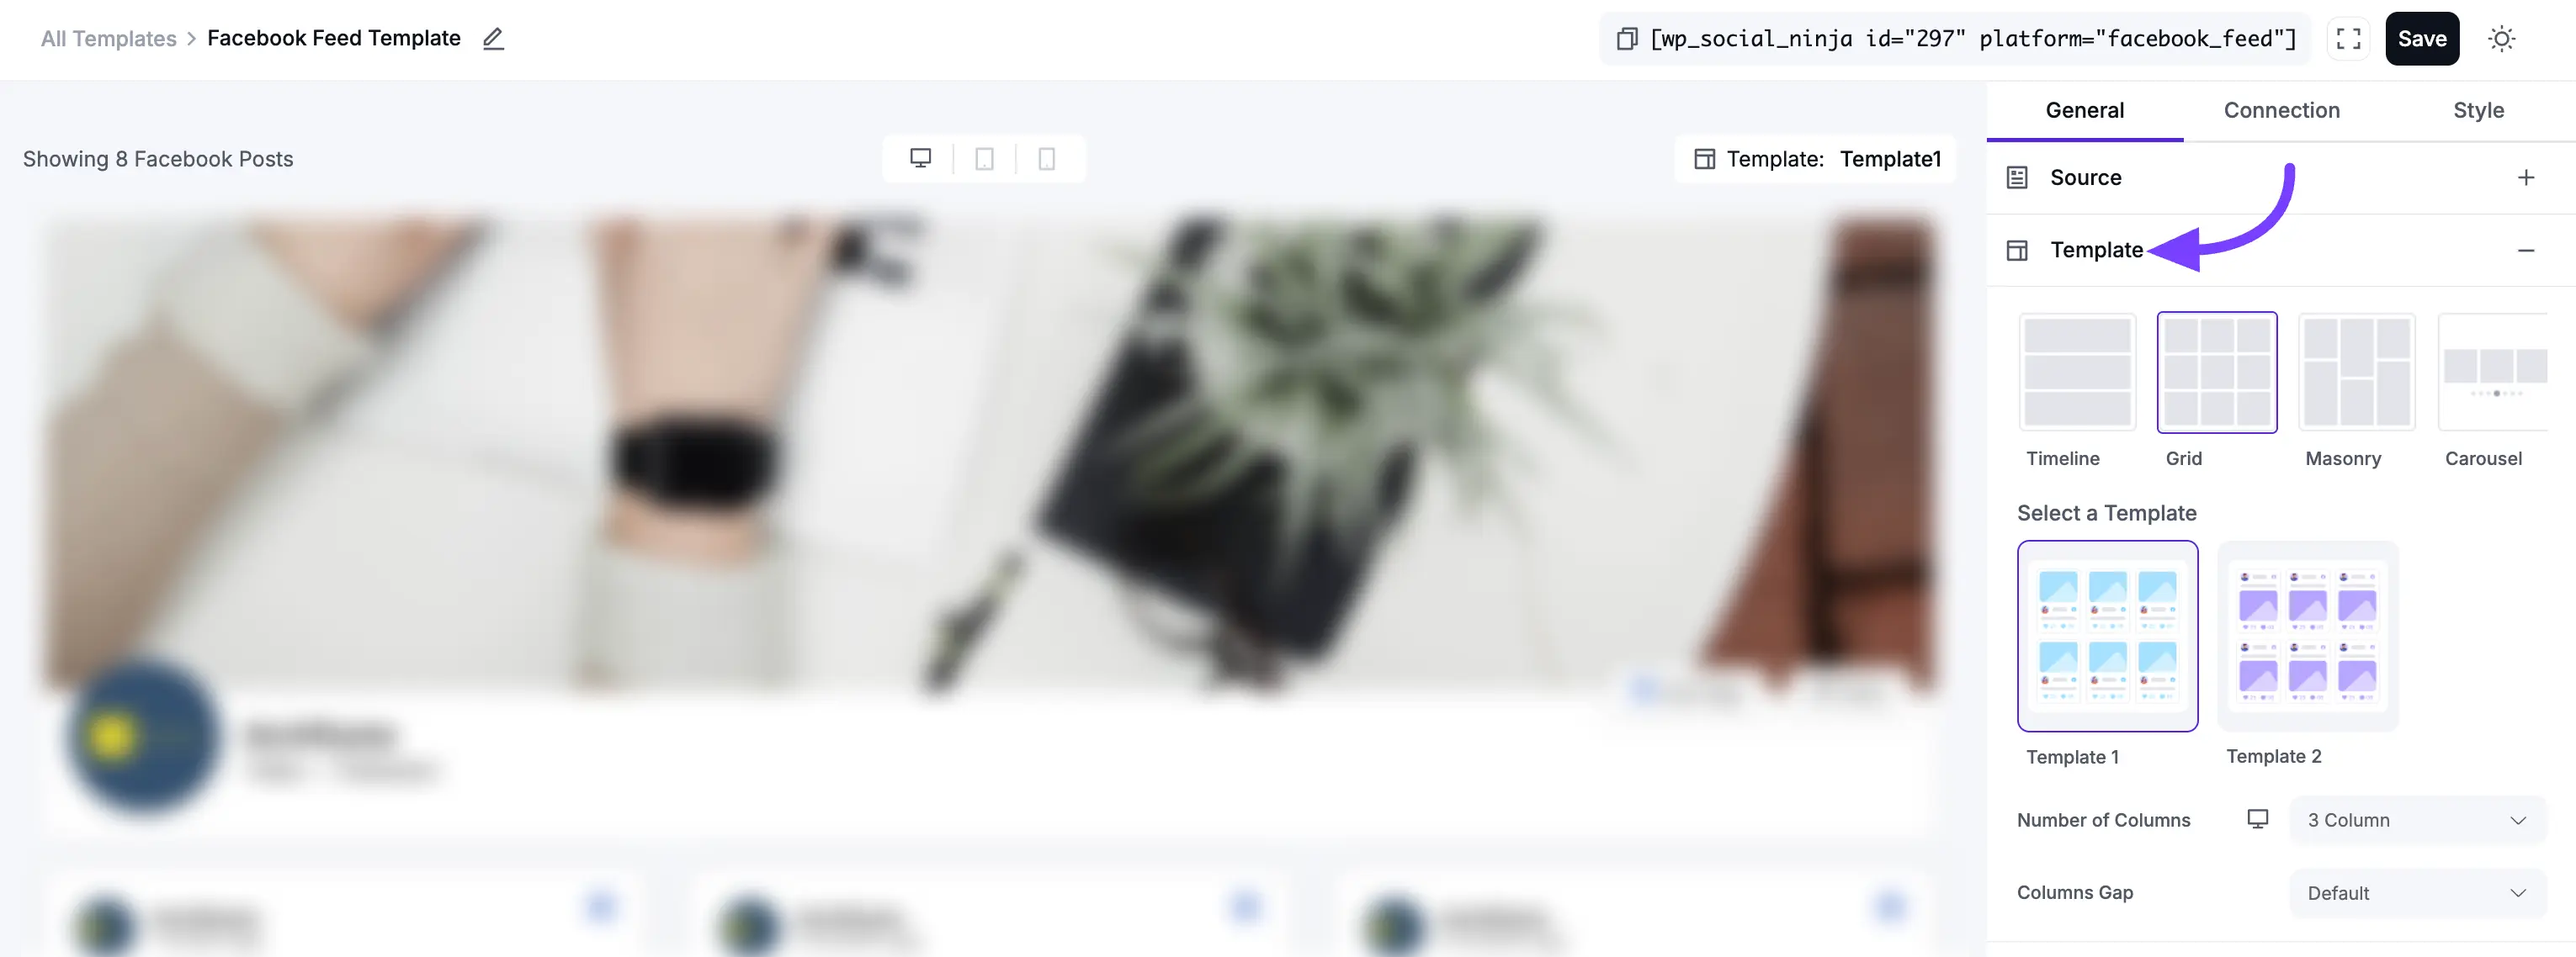
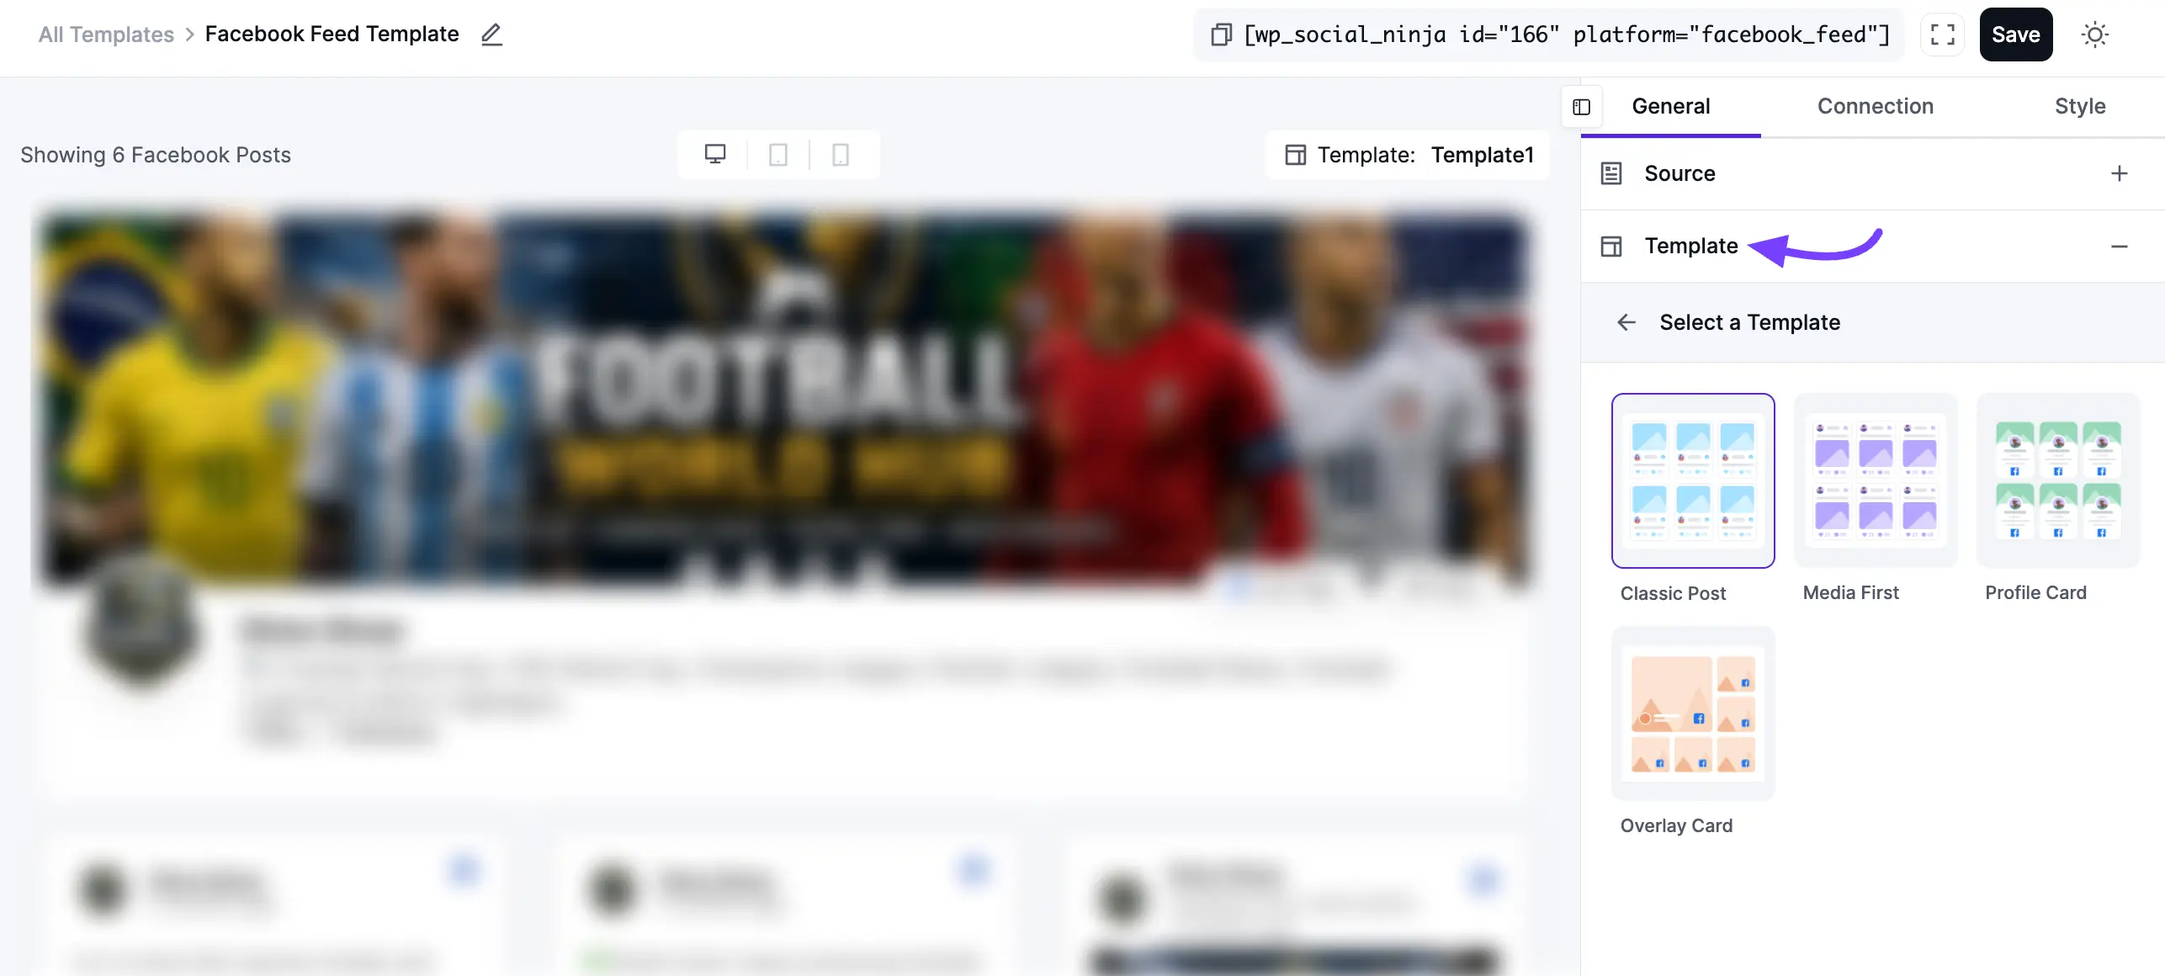
update Facebook Feed Template: General Settings

diff --git a/guide/social-feeds/facebook-customization.md b/guide/social-feeds/facebook-customization.md
@@ -62,34 +62,24 @@ This section controls the visual structure and arrangement of your posts.
 * **Number of Columns:** This is a crucial responsive setting. You can set the number of columns to show on **Desktop**, **Tablet**, and **Mobile** devices.
 * **Columns Gap:** This controls the amount of "gutter" or empty space (in pixels) between each post in your feed. Increase this for a more spaced-out, airy look, or decrease it to make the posts tighter.
 
-<!-- TODO: Capture this screenshot and save it at /guide/public/images/social-feeds/how-to-customize-facebook-feed-with-wp-social-ninja/template-picker.webp
-     then delete these comment markers to publish the image.
-![Choosing a Facebook feed template](/guide/public/images/social-feeds/how-to-customize-facebook-feed-with-wp-social-ninja/template-picker.webp)
--->
+![The Template section's Select a Template picker showing Classic Post, Media First, Profile Card, and Overlay Card](/guide/public/images/social-feeds/how-to-customize-facebook-feed-with-wp-social-ninja/fb-template-general-3.webp)
+
 
 #### What the Pro Layouts Look Like
 
-**Profile Card** puts a summary of your Page — profile picture, name and statistics — in a card above the posts.
+**Profile Card** puts a summary of your Page profile picture, name and statistics in a card above the posts.
 
-<!-- TODO: Capture this screenshot and save it at /guide/public/images/social-feeds/how-to-customize-facebook-feed-with-wp-social-ninja/profile-card.webp
-     Capture a live Facebook feed using the Profile Card template, with the summary card visible above the posts.
-     Then delete these comment markers to publish the image.
-![A Facebook feed using the Profile Card template](/guide/public/images/social-feeds/how-to-customize-facebook-feed-with-wp-social-ninja/profile-card.webp)
--->
+![The Profile Card template on the frontend, with a page summary card above the regular post cards](/guide/public/images/social-feeds/how-to-customize-facebook-feed-with-wp-social-ninja/profile-card-4.webp)
 
 **Overlay Card** arranges your media into a mosaic of tiles of varying sizes, and reveals each post's text over the tile on hover.
 
-<!-- TODO: Capture this screenshot and save it at /guide/public/images/social-feeds/how-to-customize-facebook-feed-with-wp-social-ninja/overlay-card-mosaic.webp
-     Capture the Overlay Card mosaic with the cursor resting on one tile, so the post text overlay is visible.
-     Then delete these comment markers to publish the image.
-![A Facebook feed using the Overlay Card mosaic template](/guide/public/images/social-feeds/how-to-customize-facebook-feed-with-wp-social-ninja/overlay-card-mosaic.webp)
--->
+![The Overlay Card template](/guide/public/images/social-feeds/how-to-customize-facebook-feed-with-wp-social-ninja/overlay-card-5.webp)
+
 
 #### Sorting and Order
 
 Use the Order dropdown to control how your posts are displayed. Along with standard options like **Newest**, **Oldest**, and **Random**. You can also choose **Facebook Event Default** to prioritize posts using Facebook’s native event-ordering logic.
 
-![Facebook Feed Template](/guide/public/images/social-feeds/how-to-customize-facebook-feed-with-wp-social-ninja/fb-template-general-3.webp)
 
 ### 3. Filters
 
@@ -166,24 +156,20 @@ This section controls the content and links inside each individual post card.
 This section controls the large banner at the top of your entire feed, which displays your main Page information.
 
 * **Display Header:** This is the master on/off switch for the entire header section. Toggle it off if you want a bare feed with no title.
+* **Account to Display:** If your feed is set up to show posts from multiple Pages at once, this setting lets you choose which one Page's info (cover photo, name, etc.) to show in the header.
 * **Header Layout:** Choose how much of your Page information the header shows.
     * **Classic:** The full banner — cover photo, profile picture, page name, description and follower count.
     * **Minimal:** A compact single row with just your profile photo and page name. Good when the feed sits inside a sidebar or a narrow column, or when a large banner would compete with the rest of your page.
-* **Account to Display:** If your feed is set up to show posts from multiple Pages at once, this setting lets you choose which one Page's info (cover photo, name, etc.) to show in the header.
 * **Display Toggles:** These let you show or hide the different parts of the header:
     * Display Cover Photo (Your Page's large banner image)
     * Display Profile Photo (Your Page's square logo/picture)
     * Display Page Name
     * Display Description (Your Page's "About" info)
     * Display Likes Counter (The total number of likes your Page has)
+    * Display Followers Counter (The total number of followers your Page has)
 
-<!-- TODO: Capture this screenshot and save it at /guide/public/images/social-feeds/how-to-customize-facebook-feed-with-wp-social-ninja/minimal-header.webp
-     Capture a Facebook feed with Header Layout set to Minimal, so the compact profile-photo-and-name row is visible above the posts.
-     Then delete these comment markers to publish the image.
-![A Facebook feed using the Minimal header layout](/guide/public/images/social-feeds/how-to-customize-facebook-feed-with-wp-social-ninja/minimal-header.webp)
--->
 
-![Facebook Feed Template](/guide/public/images/social-feeds/how-to-customize-facebook-feed-with-wp-social-ninja/fb-template-general-6.webp)
+![The Header section expanded, with Display Header, Account to Display, Header Layout, and the display toggles including Display Followers Counter](/guide/public/images/social-feeds/how-to-customize-facebook-feed-with-wp-social-ninja/display-header-6.webp)
 
 ### 6. Like Button
 

diff --git a/guide/social-chat/chat-widget-configuration.md b/guide/social-chat/chat-widget-configuration.md
@@ -9,7 +9,7 @@ Have you ever wanted to add Messenger, WhatsApp, or any other social chat platfo
 
 This powerful feature allows you to integrate **popular chat platforms** like Messenger, WhatsApp, Telegram, Instagram, Twitter, Slack, and many more. The setup is secure, privacy-friendly, and designed to keep your communication seamless.
 
-The video below walks through the same setup flow using Viber as the example channel — the steps are identical for every other channel covered on this page.
+The video below shows the setup process using Viber as an example. The same steps apply to all other channels covered in this guide.
 
 <iframe src="https://www.youtube.com/embed/4x0D-YqfY0c" title="How to Add Viber Chat Widget to WordPress in 5 Minutes" allowfullscreen></iframe>
 
